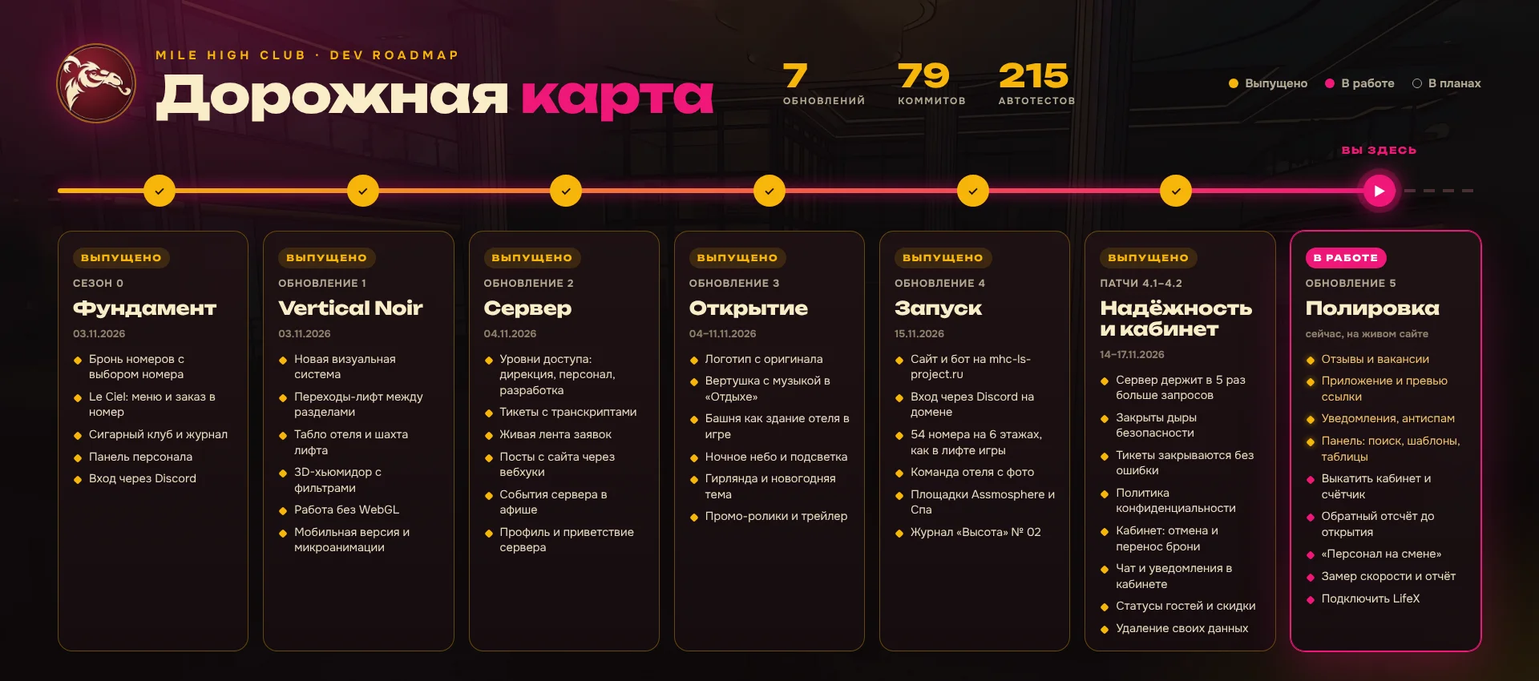
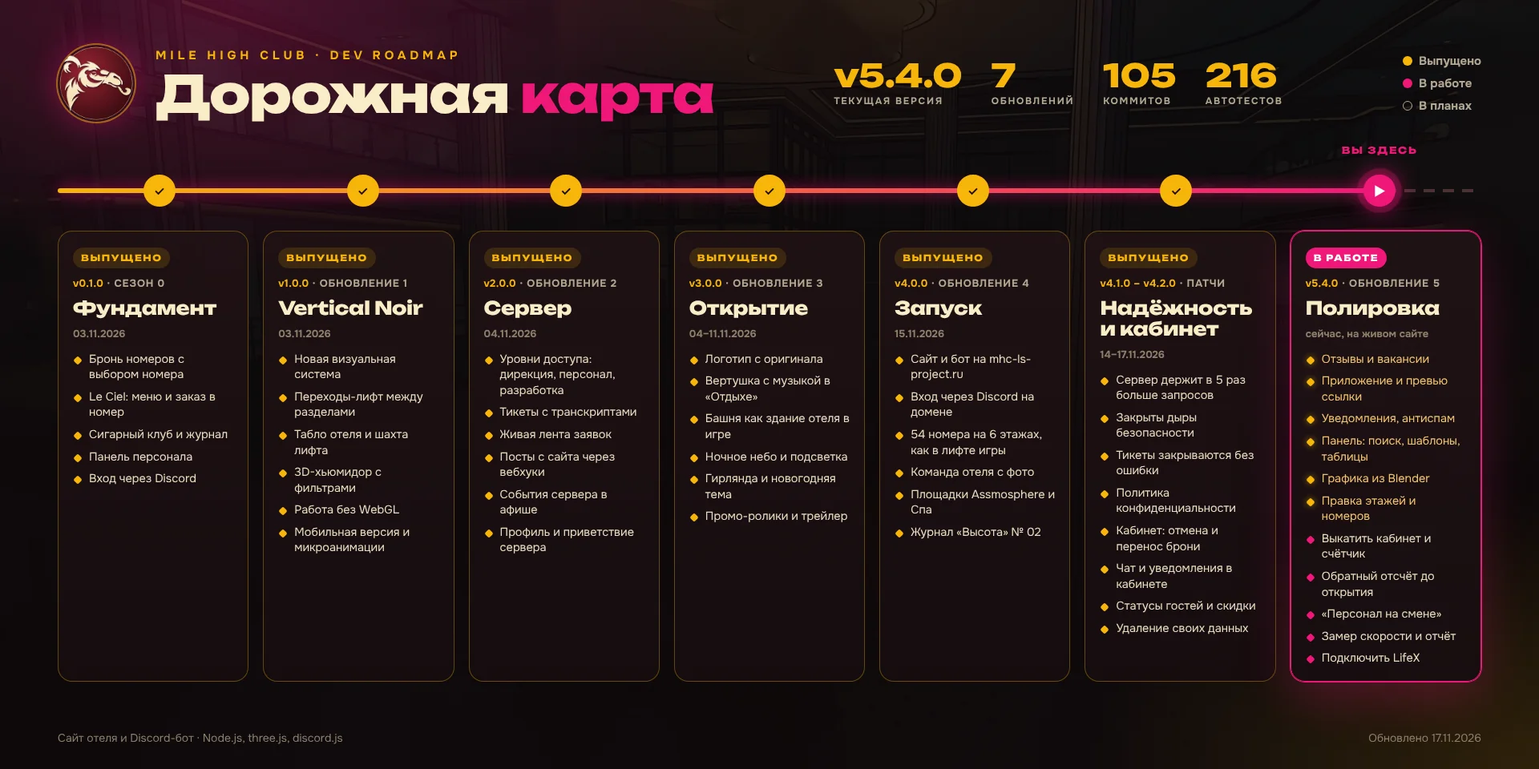
v5.4.0: номер версии на сайте и в панели, версии в дорожной карте и CHANGELOG, команда npm run release

diff --git a/docs/roadmap/roadmap.html b/docs/roadmap/roadmap.html
@@ -22,7 +22,7 @@ header img{width:96px;height:96px;border-radius:50%;box-shadow:0 0 0 2px rgba(24
 .eb{font:700 15px Onest;letter-spacing:.32em;color:var(--gold);text-transform:uppercase}
 h1{margin:6px 0 0;font:800 64px/1 Unbounded;letter-spacing:-.02em}
 h1 span{color:var(--pink)}
-.legend{margin-left:auto;display:flex;gap:22px;font:600 15px Onest;color:var(--mut)}
+.legend{margin-left:auto;display:flex;flex-direction:column;gap:8px;font:600 15px Onest;color:var(--mut);white-space:nowrap}
 .legend i{display:inline-block;width:12px;height:12px;border-radius:50%;margin-right:8px;vertical-align:-1px}
 .track{position:relative;margin:58px 0 0;height:56px}
 .rail{position:absolute;left:0;right:0;top:26px;height:4px;background:repeating-linear-gradient(90deg,#4a3033 0 14px,transparent 14px 24px);border-radius:2px}
@@ -41,6 +41,7 @@ h1 span{color:var(--pink)}
 .now .tag{background:var(--pink);color:#fff}
 .plan .tag{background:rgba(179,167,146,.12);color:var(--mut)}
 .ver{font:700 13px Onest;color:var(--mut);letter-spacing:.06em}
+.ver b{color:var(--gold);letter-spacing:.02em}
 h2{margin:0;font:800 23px/1.12 Unbounded;letter-spacing:-.01em}
 .date{font:600 13px Onest;color:var(--soft)}
 ul{margin:4px 0 0;padding:0;list-style:none;display:grid;gap:8px}
@@ -51,38 +52,38 @@ li::before{content:"";position:absolute;left:2px;top:7px;width:8px;height:8px;bo
 li.ok::before{background:var(--gold)}
 .foot{position:absolute;left:72px;right:72px;bottom:30px;display:flex;justify-content:space-between;font:500 14px Onest;color:var(--soft)}
 .big{font:800 40px Unbounded;color:var(--gold);line-height:1}
-.stats{display:flex;gap:40px;margin-left:60px}
+.stats{display:flex;gap:36px;margin-left:auto}
 .stats div{display:grid;gap:4px}.stats small{font:600 12px Onest;letter-spacing:.14em;color:var(--mut);text-transform:uppercase}
 </style>
 <div class="bgimg"></div><div class="glow"></div>
 <div class="wrap">
 <header><img src="../../public/img/emblem.webp" alt=""><div><div class="eb">Mile High Club · dev roadmap</div><h1>Дорожная <span>карта</span></h1></div>
-<div class="stats"><div><span class="big">7</span><small>обновлений</small></div><div><span class="big">79</span><small>коммитов</small></div><div><span class="big">215</span><small>автотестов</small></div></div>
+<div class="stats"><div><span class="big" data-current>v5.4.0</span><small>текущая версия</small></div><div><span class="big">7</span><small>обновлений</small></div><div><span class="big">105</span><small>коммитов</small></div><div><span class="big">216</span><small>автотестов</small></div></div>
 <div class="legend"><span><i style="background:var(--gold)"></i>Выпущено</span><span><i style="background:var(--pink)"></i>В работе</span><span><i style="border:1.5px solid var(--mut)"></i>В планах</span></div></header>
 
 <div class="track"><div class="rail"></div><div class="prog" style="--p:92.86"></div>
 <div class="node done" style="left:7.14%">✓</div><div class="node done" style="left:21.43%">✓</div><div class="node done" style="left:35.71%">✓</div><div class="node done" style="left:50%">✓</div><div class="node done" style="left:64.29%">✓</div><div class="node done" style="left:78.57%">✓</div><div class="node now" style="left:92.86%">▶</div><div class="here" style="left:92.86%">ВЫ ЗДЕСЬ</div></div>
 
 <div class="cols">
-<div class="c done"><span class="tag">ВЫПУЩЕНО</span><div class="ver">СЕЗОН 0</div><h2>Фундамент</h2><div class="date">03.11.2026</div><ul>
+<div class="c done"><span class="tag">ВЫПУЩЕНО</span><div class="ver"><b>v0.1.0</b> · СЕЗОН 0</div><h2>Фундамент</h2><div class="date">03.11.2026</div><ul>
 <li>Бронь номеров с выбором номера</li><li>Le Ciel: меню и заказ в номер</li><li>Сигарный клуб и журнал</li><li>Панель персонала</li><li>Вход через Discord</li></ul></div>
 
-<div class="c done"><span class="tag">ВЫПУЩЕНО</span><div class="ver">ОБНОВЛЕНИЕ 1</div><h2>Vertical Noir</h2><div class="date">03.11.2026</div><ul>
+<div class="c done"><span class="tag">ВЫПУЩЕНО</span><div class="ver"><b>v1.0.0</b> · ОБНОВЛЕНИЕ 1</div><h2>Vertical Noir</h2><div class="date">03.11.2026</div><ul>
 <li>Новая визуальная система</li><li>Переходы-лифт между разделами</li><li>Табло отеля и шахта лифта</li><li>3D-хьюмидор с фильтрами</li><li>Работа без WebGL</li><li>Мобильная версия и микроанимации</li></ul></div>
 
-<div class="c done"><span class="tag">ВЫПУЩЕНО</span><div class="ver">ОБНОВЛЕНИЕ 2</div><h2>Сервер</h2><div class="date">04.11.2026</div><ul>
+<div class="c done"><span class="tag">ВЫПУЩЕНО</span><div class="ver"><b>v2.0.0</b> · ОБНОВЛЕНИЕ 2</div><h2>Сервер</h2><div class="date">04.11.2026</div><ul>
 <li>Уровни доступа: дирекция, персонал, разработка</li><li>Тикеты с транскриптами</li><li>Живая лента заявок</li><li>Посты с сайта через вебхуки</li><li>События сервера в афише</li><li>Профиль и приветствие сервера</li></ul></div>
 
-<div class="c done"><span class="tag">ВЫПУЩЕНО</span><div class="ver">ОБНОВЛЕНИЕ 3</div><h2>Открытие</h2><div class="date">04–11.11.2026</div><ul>
+<div class="c done"><span class="tag">ВЫПУЩЕНО</span><div class="ver"><b>v3.0.0</b> · ОБНОВЛЕНИЕ 3</div><h2>Открытие</h2><div class="date">04–11.11.2026</div><ul>
 <li>Логотип с оригинала</li><li>Вертушка с музыкой в «Отдыхе»</li><li>Башня как здание отеля в игре</li><li>Ночное небо и подсветка</li><li>Гирлянда и новогодняя тема</li><li>Промо-ролики и трейлер</li></ul></div>
 
-<div class="c done"><span class="tag">ВЫПУЩЕНО</span><div class="ver">ОБНОВЛЕНИЕ 4</div><h2>Запуск</h2><div class="date">15.11.2026</div><ul>
+<div class="c done"><span class="tag">ВЫПУЩЕНО</span><div class="ver"><b>v4.0.0</b> · ОБНОВЛЕНИЕ 4</div><h2>Запуск</h2><div class="date">15.11.2026</div><ul>
 <li>Сайт и бот на mhc-ls-project.ru</li><li>Вход через Discord на домене</li><li>54 номера на 6 этажах, как в лифте игры</li><li>Команда отеля с фото</li><li>Площадки Assmosphere и Спа</li><li>Журнал «Высота» № 02</li></ul></div>
 
-<div class="c done"><span class="tag">ВЫПУЩЕНО</span><div class="ver">ПАТЧИ 4.1–4.2</div><h2>Надёжность и кабинет</h2><div class="date">14–17.11.2026</div><ul>
+<div class="c done"><span class="tag">ВЫПУЩЕНО</span><div class="ver"><b>v4.1.0 – v4.2.0</b> · ПАТЧИ</div><h2>Надёжность и кабинет</h2><div class="date">14–17.11.2026</div><ul>
 <li>Сервер держит в 5 раз больше запросов</li><li>Закрыты дыры безопасности</li><li>Тикеты закрываются без ошибки</li><li>Политика конфиденциальности</li><li>Кабинет: отмена и перенос брони</li><li>Чат и уведомления в кабинете</li><li>Статусы гостей и скидки</li><li>Удаление своих данных</li></ul></div>
 
-<div class="c now"><span class="tag">В РАБОТЕ</span><div class="ver">ОБНОВЛЕНИЕ 5</div><h2>Полировка</h2><div class="date">сейчас, на живом сайте</div><ul>
-<li class="ok">Отзывы и вакансии</li><li class="ok">Приложение и превью ссылки</li><li class="ok">Уведомления, антиспам</li><li class="ok">Панель: поиск, шаблоны, таблицы</li><li>Выкатить кабинет и счётчик</li><li>Обратный отсчёт до открытия</li><li>«Персонал на смене»</li><li>Замер скорости и отчёт</li><li>Подключить LifeX</li></ul></div>
+<div class="c now"><span class="tag">В РАБОТЕ</span><div class="ver"><b data-current>v5.4.0</b> · ОБНОВЛЕНИЕ 5</div><h2>Полировка</h2><div class="date">сейчас, на живом сайте</div><ul>
+<li class="ok">Отзывы и вакансии</li><li class="ok">Приложение и превью ссылки</li><li class="ok">Уведомления, антиспам</li><li class="ok">Панель: поиск, шаблоны, таблицы</li><li class="ok">Графика из Blender</li><li class="ok">Правка этажей и номеров</li><li>Выкатить кабинет и счётчик</li><li>Обратный отсчёт до открытия</li><li>«Персонал на смене»</li><li>Замер скорости и отчёт</li><li>Подключить LifeX</li></ul></div>
 </div></div>
 <div class="foot"><span>Сайт отеля и Discord-бот · Node.js, three.js, discord.js</span><span>Обновлено 17.11.2026</span></div>

diff --git a/public/js/main.js b/public/js/main.js
@@ -8,6 +8,8 @@ import { venueState, mskMinutes, weatherNow, ROOM_STATUS, BOOKING_STATUS, ORDER_
 document.documentElement.classList.add('js');
 // авторство сайта: IC — создатель в игре (Louis Cruze), OOC — реальный автор (babymontana)
 const COPY_YEARS = (y => (y > 2026 ? `2026–${y}` : '2026'))(new Date().getFullYear());
+// версия сайта: сервер подставляет её из package.json в <meta name="version">
+export const APP_VER = (v => (v && v !== 'dev' ? 'v' + v : ''))(document.querySelector('meta[name="version"]')?.content);
 const ROUTES = [['home', 'Главная'], ['stay', 'Номера'], ['leisure', 'Отдых'], ['dining', 'Le Ciel'], ['cigars', 'Сигары'], ['journal', 'Журнал'], ['staff', 'Персонал'], ['contact', 'Заявка']];
 const STATE_CHIP = { live: ['Live', 'p live'], open: ['Открыто', 'ok'], calm: ['Тихо', 'warn'], closed: ['Закрыто', 'm'], event: ['Событие', 'v live'], soon: ['Скоро', 't'] };
 const KIND_LABEL = { pool: 'Бассейн', bar: 'Бар', restaurant: 'Ресторан', club: 'Клуб', spa: 'Спа' };
@@ -31,7 +33,7 @@ function shell() {
   </div></header>
   <nav class="drawer" id="drawer" aria-label="Меню"><button class="ibtn x" id="drawerX" aria-label="Закрыть" data-sfx="close">${I.x}</button>${ROUTES.map(([id, n], i) => `<a href="#${id}" data-r="${id}"><i>${String(i + 1).padStart(2, '0')}</i>${n}</a>`).join('')}<a href="#me" data-r="me"><i>${I.user}</i>Мои брони и заявки</a><div class="dtools"><button type="button" class="btn ghost" id="dSnd" data-sfx=""></button></div></nav>
   <main id="main">${ROUTES.concat([['me'], ['admin'], ['issue'], ['jobs'], ['privacy'], ['lost']]).map(([id]) => `<section class="view" data-view="${id}"></section>`).join('')}</main>
-  <footer><div class="wrap"><span id="foot"></span><span class="row"><a href="#me">Мои брони</a><span>·</span><button class="secrets" id="achBtn" data-sfx="secret">Секреты отеля <b class="num" id="achN"></b></button><span>·</span><a href="#admin">Вход для персонала</a><span>·</span><a href="#jobs">Вакансии</a><span>·</span><a href="#privacy">Конфиденциальность</a><span class="appl" hidden>·</span><button class="secrets appl" id="appBtn" hidden>Приложение</button></span></div><div class="wrap credits"><span>© ${COPY_YEARS} Mile High Club · Создатель сайта Louis Cruze</span><span class="ooc"><b>OOC</b>Сайт: babymontana</span></div><div class="wrap kon" aria-hidden="true">${[["ArrowUp", "↑"], ["ArrowUp", "↑"], ["ArrowDown", "↓"], ["ArrowDown", "↓"], ["ArrowLeft", "←"], ["ArrowRight", "→"], ["ArrowLeft", "←"], ["ArrowRight", "→"], ["b", "B"], ["a", "A"]].map(([k, c]) => `<b data-k="${k}">${c}</b>`).join("")}</div></footer>
+  <footer><div class="wrap"><span id="foot"></span><span class="row"><a href="#me">Мои брони</a><span>·</span><button class="secrets" id="achBtn" data-sfx="secret">Секреты отеля <b class="num" id="achN"></b></button><span>·</span><a href="#admin">Вход для персонала</a><span>·</span><a href="#jobs">Вакансии</a><span>·</span><a href="#privacy">Конфиденциальность</a><span class="appl" hidden>·</span><button class="secrets appl" id="appBtn" hidden>Приложение</button></span></div><div class="wrap credits"><span>© ${COPY_YEARS} Mile High Club · Создатель сайта Louis Cruze</span><span class="ooc"><b>OOC</b>Сайт: babymontana${APP_VER ? `<span class="ver num" title="Версия сайта">${APP_VER}</span>` : ''}</span></div><div class="wrap kon" aria-hidden="true">${[["ArrowUp", "↑"], ["ArrowUp", "↑"], ["ArrowDown", "↓"], ["ArrowDown", "↓"], ["ArrowLeft", "←"], ["ArrowRight", "→"], ["ArrowLeft", "←"], ["ArrowRight", "→"], ["b", "B"], ["a", "A"]].map(([k, c]) => `<b data-k="${k}">${c}</b>`).join("")}</div></footer>
   <button class="fab" id="fab" aria-label="Заказ в номер" data-sfx="open"><span class="n" id="fabN">0</span>${I.cart}<span id="fabT">$0</span></button>`;
   const drawer = $('#drawer'), closeDrawer = () => { if (!drawer.classList.contains('on')) return; drawer.classList.remove('on'); popLayer(drawer); $('#burger').setAttribute('aria-expanded', 'false'); };
   $('#burger').setAttribute('aria-controls', 'drawer'); $('#burger').setAttribute('aria-expanded', 'false');

diff --git a/public/js/admin.js b/public/js/admin.js
@@ -14,6 +14,7 @@ const SECTIONS = [
 const BUILTIN_IMG = ['img/atrium-night.webp', 'img/atrium-day.webp', 'img/reception.webp', 'img/library.webp', ...[1, 2, 3, 4, 5, 6, 7, 8].map(n => `img/journal/p${n}.webp`)];
 const BCHIP = { new: 'p', confirmed: 'ok', checkedin: 'v', done: 'm', cancelled: 'bad' };
 let A = null, root = null, sec = 'overview', ctx = {}, sel = {}, bFilter = 'active', bq = '', aTicket = null;
+const APP_VER = (v => (v && v !== 'dev' ? 'v' + v : ''))(document.querySelector('meta[name="version"]')?.content); // версия сайта
 const isAdmin = () => S.me?.role === 'admin';
 const can = r => r === 'mod' || isAdmin();
 
@@ -37,7 +38,7 @@ export async function refresh(cols) {
 function badges() { if (!A) return {}; return { bookings: A.bookings.filter(b => b.status === 'new').length, tickets: A.tickets.filter(t => t.status === 'open' && t.mode === 'site' && t.lastFrom === 'guest').length, orders: A.orders.filter(o => ['new', 'cooking'].includes(o.status)).length, reviews: (A.reviews || []).filter(r => r.status === 'pending').length }; }
 function paintAside() {
   const b = badges(), u = S.me;
-  $('#aside').innerHTML = `<div class="who">${u.avatar ? `<img class="avatar" src="${esc(u.avatar)}" alt="">` : `<span class="avatar">${esc(u.username[0])}</span>`}<div class="grow"><b style="font-size:.88rem">${esc(u.username)}</b><div class="note">${u.role === 'admin' ? 'Администратор' : 'Модератор'}${u.demo ? ' · демо' : ''}</div></div><button class="ibtn" id="aOut" aria-label="Выйти">${I.out}</button></div><div class="asearch"><input class="inp" id="aSq" type="search" placeholder="Поиск: код, ник, имя, номер" autocomplete="off" aria-label="Поиск по броням, заказам, обращениям и отзывам"><div class="ares" id="aRes" hidden></div></div><div class="anav" id="anav">` +
+  $('#aside').innerHTML = `<div class="who">${u.avatar ? `<img class="avatar" src="${esc(u.avatar)}" alt="">` : `<span class="avatar">${esc(u.username[0])}</span>`}<div class="grow"><b style="font-size:.88rem">${esc(u.username)}</b><div class="note">${u.role === 'admin' ? 'Администратор' : 'Модератор'}${u.demo ? ' · демо' : ''}${APP_VER ? ` · <span class="ver num">${APP_VER}</span>` : ''}</div></div><button class="ibtn" id="aOut" aria-label="Выйти">${I.out}</button></div><div class="asearch"><input class="inp" id="aSq" type="search" placeholder="Поиск: код, ник, имя, номер" autocomplete="off" aria-label="Поиск по броням, заказам, обращениям и отзывам"><div class="ares" id="aRes" hidden></div></div><div class="anav" id="anav">` +
     SECTIONS.map(([g, items]) => { const vis = items.filter(([, , r]) => can(r)); return vis.length ? (g ? `<span class="grp">${g}</span>` : '') + vis.map(([k, n]) => `<button data-s="${k}" aria-pressed="${k === sec}" data-sfx="soft"><span>${n}</span>${b[k] ? `<span class="badge">${b[k]}</span>` : ''}</button>`).join('') : ''; }).join('') + '</div>';
   if (innerWidth <= 900) { const on = $('#anav [aria-pressed="true"]'), as = $('#anav'); if (on && as) as.scrollTo({ left: on.offsetLeft - as.clientWidth / 2 + on.offsetWidth / 2, behavior: 'smooth' }); }
   $$('#aside [data-s]').forEach(x => x.onclick = () => { sec = x.dataset.s; try { sessionStorage.setItem('mhc-sec', sec); } catch { } paintAside(); paint(); scrollTo({ top: 0 }); });

diff --git a/server/index.js b/server/index.js
@@ -261,13 +261,15 @@ function sendBuf(req, res, e, type, cacheControl) {
   res.set('Content-Length', body.length); return req.method === 'HEAD' ? res.end() : res.end(body);
 }
 function renderIndex() {
+  // версия сайта из package.json (npm run release) — видна в подвале и в панели
+  const APP_VERSION = JSON.parse(fs.readFileSync(path.join(ROOT, 'package.json'), 'utf8')).version;
   const files = [];
   const walk = (dir) => { for (const e of fs.readdirSync(dir, { withFileTypes: true })) { const f = path.join(dir, e.name); if (e.isDirectory()) walk(f); else if (/\.(js|css)$/.test(e.name)) files.push(f); } };
   ['js', 'css', 'vendor'].forEach(d => fs.existsSync(path.join(PUBLIC, d)) && walk(path.join(PUBLIC, d)));
   const ver = {};
   for (const f of files) ver['/' + path.relative(PUBLIC, f).split(path.sep).join('/')] = crypto.createHash('sha1').update(fs.readFileSync(f)).digest('hex').slice(0, 10);
   const v = url => url + '?v=' + ver[url];
-  let html = fs.readFileSync(path.join(PUBLIC, 'index.html'), 'utf8');
+  let html = fs.readFileSync(path.join(PUBLIC, 'index.html'), 'utf8').replace('<meta name="version" content="dev">', `<meta name="version" content="${APP_VERSION}">`);
   const map = JSON.parse(html.match(/<script type="importmap">([\s\S]*?)<\/script>/)[1]);
   const imports = {};
   for (const [k, target] of Object.entries(map.imports)) {

diff --git a/public/css/app.css b/public/css/app.css
@@ -1044,6 +1044,8 @@ footer .wrap.kon{padding-block:0 1.2rem;justify-content:center;font:600 .6rem va
 footer .wrap.credits{padding-block:0 1rem;margin-top:-1rem;font-size:.75rem;color:var(--mut);opacity:.8;gap:.4rem 1rem}
 footer .credits .ooc{display:inline-flex;align-items:center;gap:.45rem}
 footer .credits .ooc b{font:700 .6rem var(--body);letter-spacing:.12em;padding:.1rem .35rem;border:1px solid var(--line2);border-radius:.25rem;color:var(--mut)}
+footer .credits .ver{margin-left:.35rem;padding-left:.8rem;border-left:1px solid var(--line2);color:var(--gold);letter-spacing:.04em}
+.aside .who .ver{color:var(--gold)}
 
 /* кабинет гостя */
 .me-grid{display:grid;grid-template-columns:minmax(0,1.6fr) minmax(0,1fr);gap:1.5rem;align-items:start}

diff --git a/public/index.html b/public/index.html
@@ -7,6 +7,7 @@
 <meta name="description" content="Отель Mile High Club в Лос-Сантосе: бронь номеров, бассейны, Le Ciel, сигарный клуб и журнал.">
 <meta name="theme-color" content="#0D0809">
 <meta name="author" content="babymontana">
+<meta name="version" content="dev">
 <meta name="copyright" content="© Mile High Club. Создатель сайта Louis Cruze (IC). OOC: babymontana">
 <link rel="icon" href="img/favicon.png?v=2">
 <link rel="apple-touch-icon" href="img/apple-touch-icon.png?v=2">

diff --git a/README.md b/README.md
@@ -6,6 +6,8 @@
 
 **Сайт отеля над Лос-Сантосом и Discord-бот для GTA RP**
 
+Текущая версия: **<!--ver-->v5.4.0<!--/ver-->**
+
 Бронь номеров на 3D-башне · Le Ciel и заказ в номер · сигарный клуб · журнал · обращения с тикетами в Discord · панель персонала
 
 [Новое](#последнее-обновление) · [Дорожная карта](#дорожная-карта) · [Возможности](#возможности) · [Панель персонала](#панель-персонала) · [Discord](#discord-бот) · [Запуск](#запуск-на-сервере)
@@ -16,7 +18,7 @@
 
 ## Последнее обновление
 
-**Обновление 5 «Полировка» · 17.11.2026 · удобство для гостей и персонала**
+**v5.4.0 · Обновление 5 «Полировка» · 17.11.2026**
 
 - **Уведомления на сайте:** колокольчик в шапке. Бронь подтвердили, заказ несут, управляющий ответил, отзыв опубликован — всё приходит и на сайт, новое всплывает подсказкой.
 - **Проверка ника Discord** прямо в форме брони: сайт подскажет, если такого участника нет на сервере, и переспросит перед отправкой.
@@ -142,7 +144,7 @@
 
 </details>
 
-Подробности по каждому пункту — в [CHANGELOG.md](CHANGELOG.md). Картинка дорожной карты собирается из `docs/roadmap/roadmap.html` командой `node docs/roadmap/render.cjs`.
+Подробности по каждому пункту — в [CHANGELOG.md](CHANGELOG.md). Номер версии (вида `v5.4.0`) хранится в `package.json` и виден в подвале сайта и в панели персонала; новая версия выпускается командой `npm run release -- patch|minor|major "Название"` — она же обновляет README, CHANGELOG и дорожную карту. Картинка дорожной карты собирается из `docs/roadmap/roadmap.html` командой `node docs/roadmap/render.cjs`.
 
 ## Возможности
 

diff --git a/CHANGELOG.md b/CHANGELOG.md
@@ -2,6 +2,24 @@
 
 Сводка работы над сайтом и Discord-ботом Mile High Club. Подробности в истории коммитов.
 
+## Версии
+
+Номер версии хранится в `package.json` и виден на сайте (подвал) и в панели персонала. Новая версия — `npm run release -- patch|minor|major "Название"`.
+
+<!--versions-->
+- **v5.4.0** · 17.11.2026 · Правка номеров и этажей с доски, редактор этажа целиком, номер версии на сайте
+- **v5.3.0** · 17.11.2026 · Графика из Blender: башня, город, хьюмидор, сигары, дым
+- **v5.2.0** · 17.11.2026 · Анимации секретов отеля, чистка лишних функций
+- **v5.1.0** · 17.11.2026 · Уведомления на сайте, антиспам, поиск, шаблоны и выгрузка в панели
+- **v5.0.0** · 17.11.2026 · Отзывы, вакансии, сайт как приложение, превью ссылок
+- **v4.2.0** · 17.11.2026 · Кабинет гостя, LifeX, политика конфиденциальности
+- **v4.1.0** · 14.11.2026 · Надёжность: сервер держит в 5 раз больше запросов, закрыты дыры безопасности
+- **v4.0.0** · 15.11.2026 · Запуск на mhc-ls-project.ru
+- **v3.0.0** · 04–11.11.2026 · Открытие: логотип, башня как в игре, ночное небо
+- **v2.0.0** · 04.11.2026 · Сервер: Discord-бот, тикеты, вебхуки, уровни доступа
+- **v1.0.0** · 03.11.2026 · Vertical Noir: новая визуальная система
+- **v0.1.0** · 03.11.2026 · Сезон 0: фундамент
+
 ## Discord
 
 - Схема сервера лёгкая: `🎫・ОБРАЩЕНИЯ`, `👥・ПЕРСОНАЛ`, `👑・ДИРЕКЦИЯ`, `🛠・РАЗРАБОТКА`, каналы со значками.
